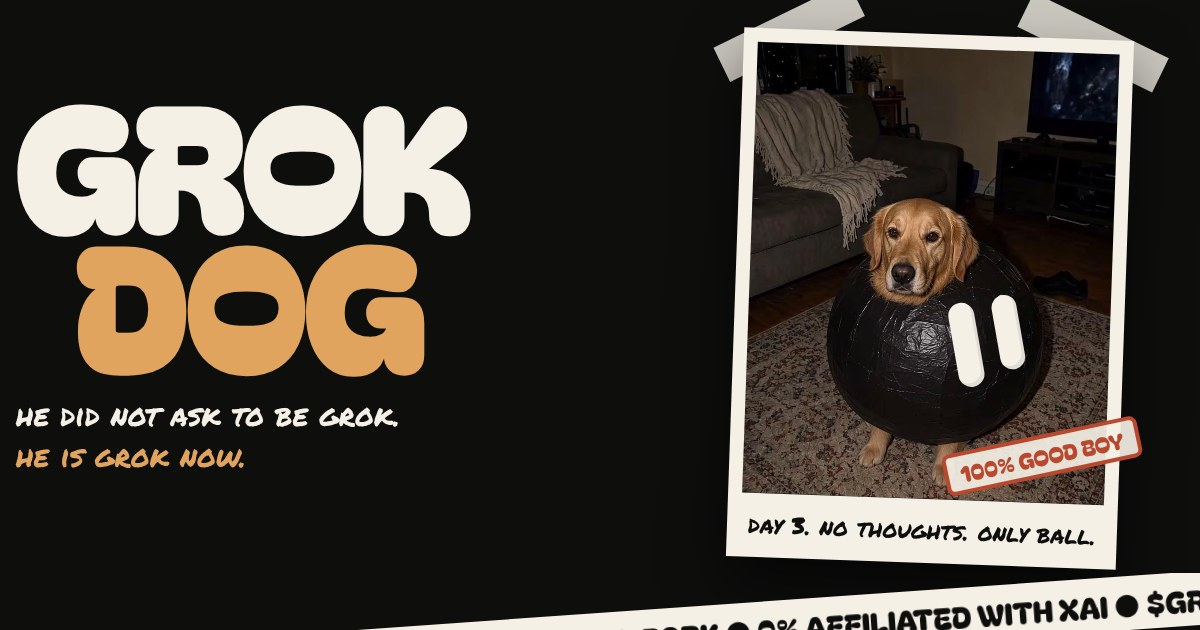
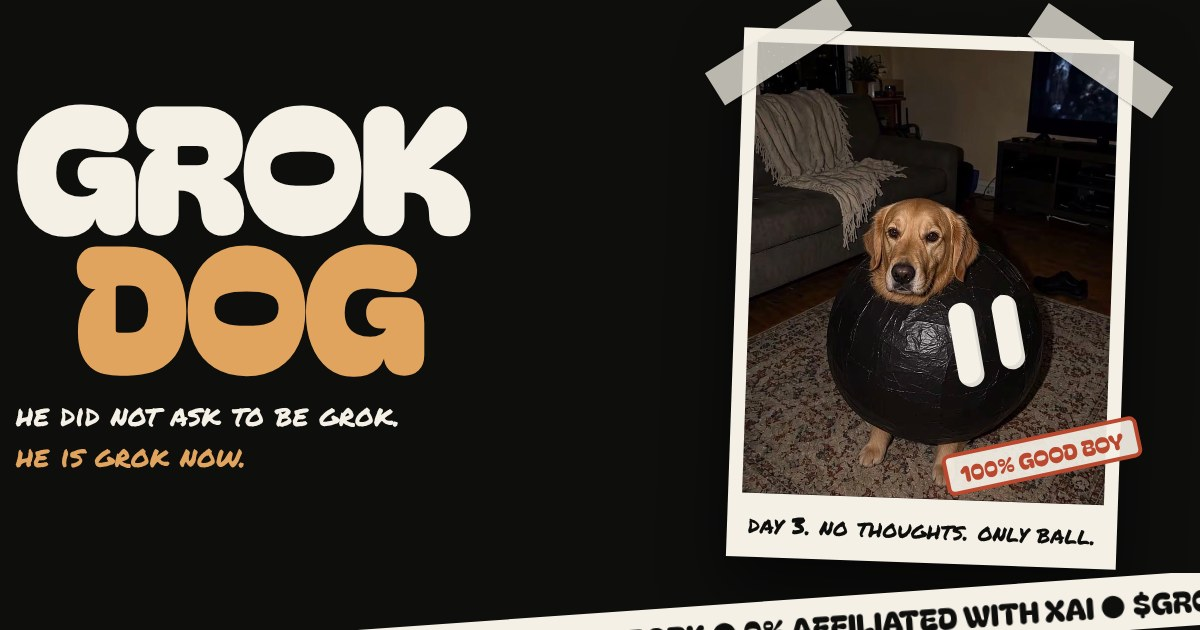
Grok Dog: tape strips sit on top of the polaroid corners
Claude-Session: https://claude.ai/code/session_018wV7a48DZQTh4d8AXUHhqp

diff --git a/coins/grok-dog/index.html b/coins/grok-dog/index.html
@@ -94,8 +94,9 @@ nav .links a:hover{opacity:1;text-decoration:underline wavy var(--gold)}
 .photo .frame{position:relative;background:var(--tape);padding:14px 14px 64px;box-shadow:0 30px 60px rgba(0,0,0,.55)}
 .photo .frame img{width:100%;height:auto;aspect-ratio:1320/1643;object-fit:cover}
 .photo .cap{position:absolute;left:0;right:0;bottom:16px;text-align:center;color:var(--ink);font-size:24px}
-.photo .strip{position:absolute;width:150px;height:38px;background:rgba(244,240,230,.82);top:-16px}
-.photo .strip.a{left:-30px;transform:rotate(-28deg)} .photo .strip.b{right:-34px;transform:rotate(24deg)}
+/* the tape sits on top of the polaroid corners, slightly see-through like real tape */
+.photo .strip{position:absolute;z-index:3;width:150px;height:38px;background:rgba(236,232,220,.78);top:-12px;box-shadow:0 1px 2px rgba(0,0,0,.25);pointer-events:none}
+.photo .strip.a{left:-40px;top:2px;transform:rotate(-34deg)} .photo .strip.b{right:-42px;top:2px;transform:rotate(32deg)}
 /* the costume's eyes, alive: they sit exactly on the tape in the photo */
 .eye{position:absolute;background:var(--tape);border-radius:999px;box-shadow:inset -3px -4px 0 rgba(0,0,0,.08);transform-origin:50% 50%}
 .eye.l{left:calc(14px + (100% - 28px) * .568);top:calc(14px + (100% - 78px) * .561);width:calc((100% - 28px) * .073);height:calc((100% - 28px) * .17)}
